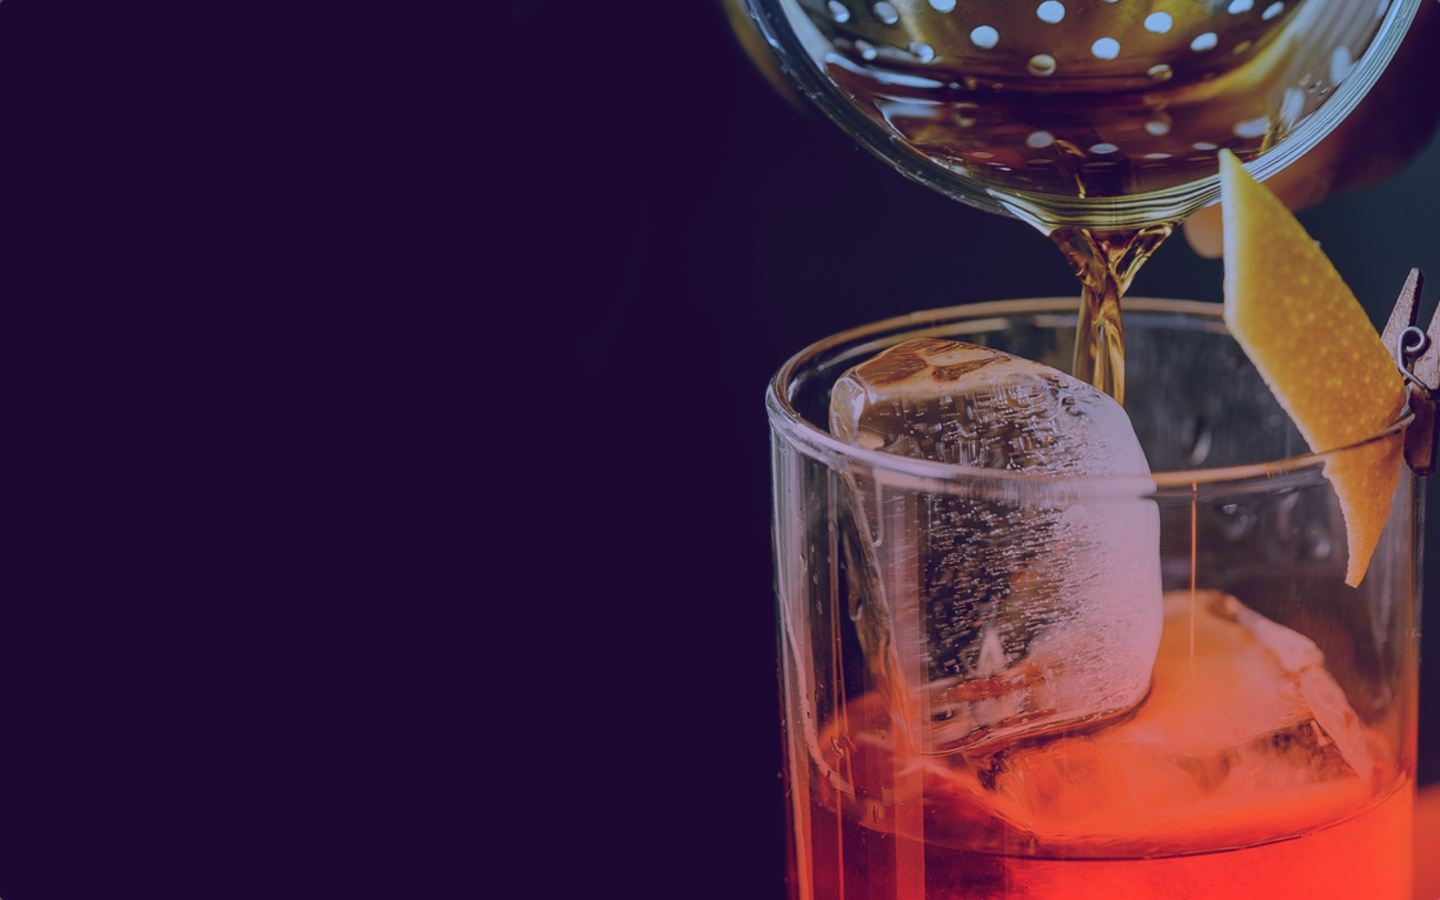
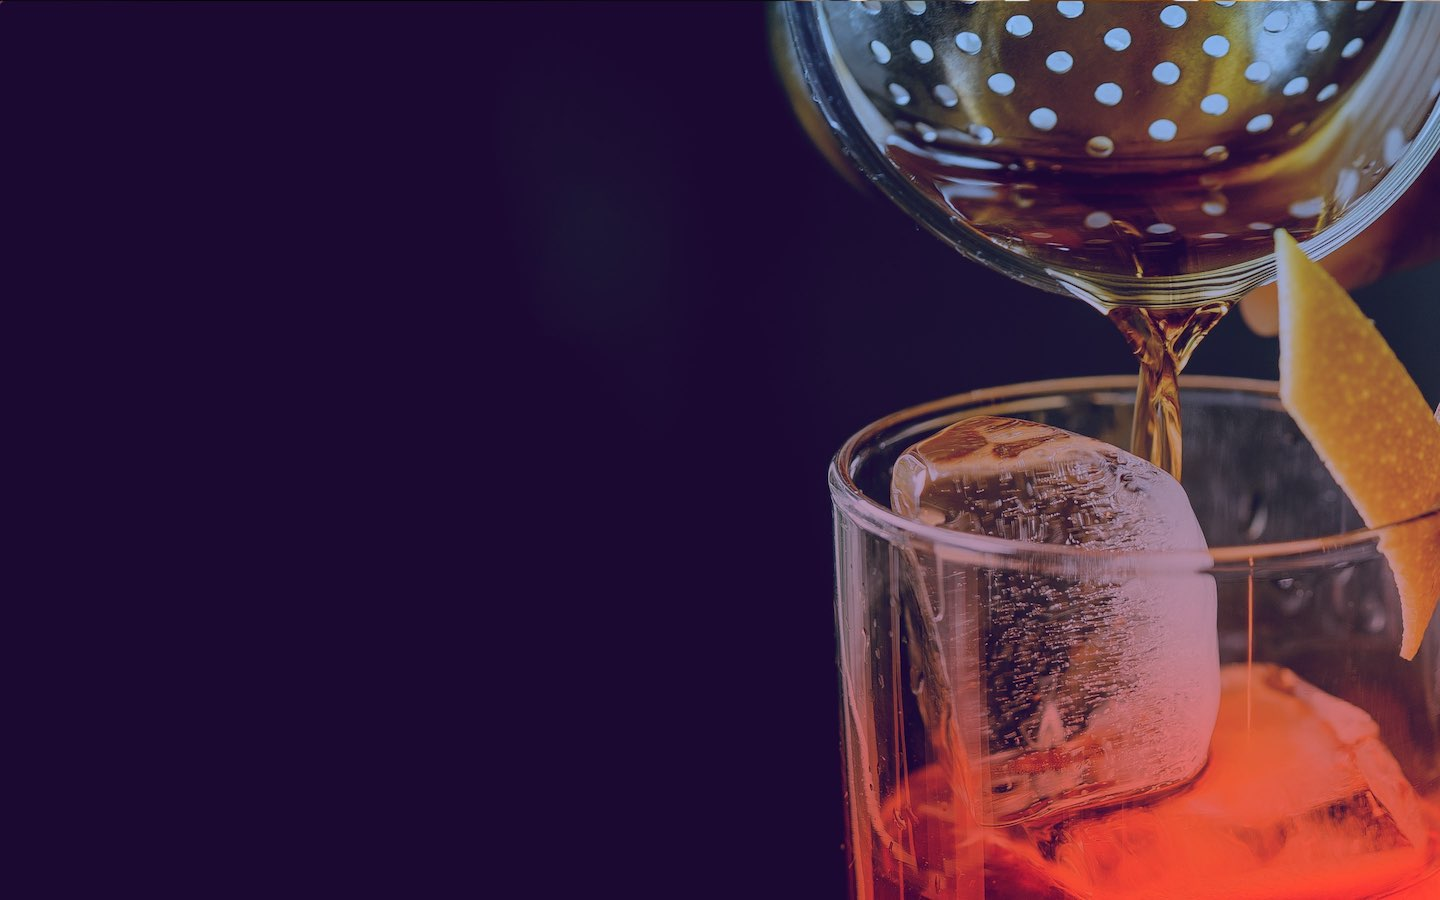
colors and bg image

diff --git a/source/stylesheets/screen/_project.scss b/source/stylesheets/screen/_project.scss
@@ -1,14 +1,21 @@
 @import "screen/project-masthead";
 
 .index {
-  background-color: #f8f9fa;
+  background-color: $soft-white;
 }
 .delectable_index {
   background-color: darken($project-delectable, 3%);
-
+  ::selection {
+    background-color: $project-delectable;
+  }
 }
+
 .alchemist_index {
   background-color: darken($project-alchemist, 2%);
+}
+
+.banquet_index {
+  background-color: darken($project-banquet, 2%);
 }
 
 
@@ -18,7 +25,7 @@
   h5 {
     color: $gray-4;
     font-size: 0.8rem;
-    font-weight: 500;
+    font-weight: 400;
     text-transform: uppercase;
     letter-spacing: 1px;
   }
@@ -35,7 +42,7 @@
 }
 
 .project-content {
-  margin: 4rem 0 0;
+  margin: 4rem 0;
   p {
     margin-left: 16.66666667%;
     flex-basis: 66.66666667%;
@@ -44,19 +51,42 @@
   }
 
   h2 {
-    margin: 0 0 2rem;
+    margin: 0 0 1rem;
     margin-left: 16.66666667%;
     flex-basis: 66.66666667%;
     max-width: 66.66666667%;
     color: $gray-2;
     text-align: center;
-    font-size: 2.2rem;
+    font-size: 2rem;
     font-weight: 300;
   }
 }
 
 .image-full {
-  img {  width: 100%; }
+  margin: 0;
+  img { width: 100%; }
+}
+
+.single-gallery {
+  box-sizing: border-box;
+  display: flex;
+  flex: 0 1 auto;
+  flex-direction: row;
+  flex-wrap: wrap;
+  margin: 2rem 0;
+  figure {
+    flex-basis: 100%;
+    max-width: 100%;
+    text-align: center;
+    margin: 0;
+    img {
+      max-width: 100%;
+      margin: 0;
+      border-radius: 3px;
+      overflow: hidden;
+      box-shadow: 0px 10px 24px 5px rgba(0,0,0,0.32);
+    }
+  }
 }
 
 .gallery {
@@ -65,13 +95,14 @@
   flex: 0 1 auto;
   flex-direction: row;
   flex-wrap: wrap;
-  margin: 0 0 2rem;
-  picture {
+  margin: 2rem 0;
+  figure {
     flex-basis: 33.33333333%;
     max-width: 33.33333333%;
     text-align: center;
+    margin: 0;
     img {
-      max-width: 85%;
+      max-width: 90%;
       margin: 0;
       border-radius: 3px;
       overflow: hidden;

diff --git a/source/stylesheets/screen/_project-list.scss b/source/stylesheets/screen/_project-list.scss
@@ -1,5 +1,8 @@
 .project-delectable {
   background: image-url('project-delectable-cover.jpg') $project-delectable no-repeat center;
+  @media only screen and (min-device-pixel-ratio: 1.3) {
+    background: image-url('project-delectable-cover@2x.jpg') $project-delectable no-repeat center;
+  }
   background-size: cover;
   ::selection {
     background: $project-delectable;
@@ -18,6 +21,9 @@
 
 .project-alchemist {
   background: image-url('project-alchemist-cover.jpg') $project-alchemist no-repeat center;
+  @media only screen and (min-device-pixel-ratio: 1.3) {
+    background: image-url('project-alchemist-cover@2x.jpg') $project-alchemist no-repeat center;
+  }
   background-size: cover;
   ::selection {
     background: $project-alchemist;
@@ -35,6 +41,9 @@
 
 .project-banquet {
   background: image-url('project-banquet-cover.jpg') $project-banquet no-repeat center;
+  @media only screen and (min-device-pixel-ratio: 1.3) {
+    background: image-url('project-banquet-cover@2x.jpg') $project-banquet no-repeat center;
+  }
   background-size: cover;
   ::selection {
     background: $project-banquet;
@@ -165,7 +174,7 @@
 @media only screen and (min-width: $large) {
   .project {
     h2 {
-      font-size: 3.6rem;
+      font-size: 3.2rem;
     }
     h4 {
       margin: 8rem 0 0;
@@ -184,9 +193,7 @@
 
 @media only screen and (min-width: $x-large) {
   .project {
-    h2 {
-      font-size: 4rem;
-    }
+
     h4 {
       margin: 10rem 0 0;
     }

diff --git a/source/stylesheets/site.css.scss b/source/stylesheets/site.css.scss
@@ -39,7 +39,7 @@ body {
 ::selection { background: $yellow; }
 
 h1 {
-  font-size: 3.4rem;
+  font-size: 2.6rem;
   font-weight: 300;
   letter-spacing: 0px;
 }
@@ -77,12 +77,13 @@ p { margin: 10px 0 20px; }
 a:link, a:visited {
   color: $gray-5;
   text-decoration: none;
-  border-bottom: 1px solid $gray-3;
+  border-bottom: 1px solid $soft-white;
   transition: all 0.2s ease;
 }
 
 a:hover, a:active {
-  color: $indigo;
+  color: $gray-4;
+  border-bottom: 1px solid $gray-3;
   padding-bottom: 2px;
   transition: all 0.2s ease;
 }
@@ -91,13 +92,11 @@ footer {
   position: relative;
   text-align: center;
   padding: 4rem 0;
-  margin: 6rem 0 0;
   background-color: $soft-white;
-  a:link, a:visited, a:hover, a:active {
-    color: $gray-5;
-  }
+  ::selection { background: $yellow !important; }
+
   span {
-    color: $gray-3;
+    color: $gray-2;
     padding: 0 .4rem;
   }
 }

diff --git a/source/stylesheets/screen/_project-masthead.scss b/source/stylesheets/screen/_project-masthead.scss
@@ -13,14 +13,6 @@
 .masthead-text {
   box-sizing: border-box;
   flex-basis: 100%;
-  h1 {
-    padding-right: 2rem;
-    padding-left: 2rem;
-  }
-  p {
-    padding-right: 18rem;
-    padding-left: 2rem;
-  }
 }
 
 .masthead {
@@ -31,6 +23,8 @@
     animation-name: fadeInHeader;
     animation-fill-mode: both;
     color: $white;
+    padding-right: 2rem;
+    padding-left: 2rem;
   }
 
   p {
@@ -39,10 +33,12 @@
     animation-name: fadeInHeader;
     animation-fill-mode: both;
     margin: 0 0 6rem;
-    font-size: 1.4rem;
+    font-size: 1.2rem;
     font-weight: 400;
     letter-spacing: 0px;
     color: $gray-2;
+    padding-right: 18rem;
+    padding-left: 2rem;
   }
   img {
     animation-duration: 1s;

diff --git a/source/stylesheets/screen/_index.scss b/source/stylesheets/screen/_index.scss
@@ -15,10 +15,10 @@
     }
   }
 
-  #nav-toggle {
+  #toggle {
     &:hover {
       span, span:after, span:before {
-        background-color: $gray-5;
+        background-color: $gray-4;
       }
     }
     span, span:after, span:before {
@@ -37,7 +37,7 @@
     &.is-active {
       &:hover {
         span:after, span:before {
-          background-color: gray-6;
+          background-color: $gray-6;
         }
       }
     }

diff --git a/source/stylesheets/_color.scss b/source/stylesheets/_color.scss
@@ -4,11 +4,11 @@ $black: #000000;
 // Tint
 $yellow: #fff3bf;
 $indigo: #f08c00;
-$soft-white: #F8F9FA;
+$soft-white: #f8f9fa;
 // Projects
-$project-delectable: #23303B;
-$project-alchemist: #1A0C30;
-$project-banquet: #04b8b6;
+$project-delectable: #1c223d;
+$project-alchemist: #1a0c31;
+$project-banquet: #131949;
 
 // Gray scale
 $gray-1: #f8f9fa;

diff --git a/source/stylesheets/screen/_nav.scss b/source/stylesheets/screen/_nav.scss
@@ -74,7 +74,7 @@
 
   h6 {
     color: $gray-4;
-    font-weight: 600;
+    font-weight: 500;
     margin-bottom: 1rem;
   }
 }

diff --git a/source/stylesheets/ui/_button-nav.scss b/source/stylesheets/ui/_button-nav.scss
@@ -1,4 +1,4 @@
-#nav-toggle {
+#toggle {
   user-select: none;
 	cursor: pointer;
   width: 2.2rem;
